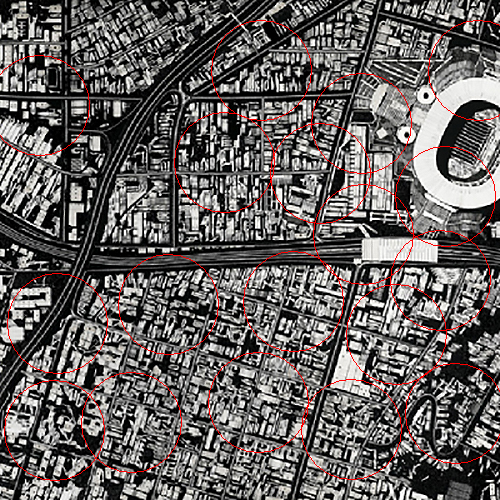
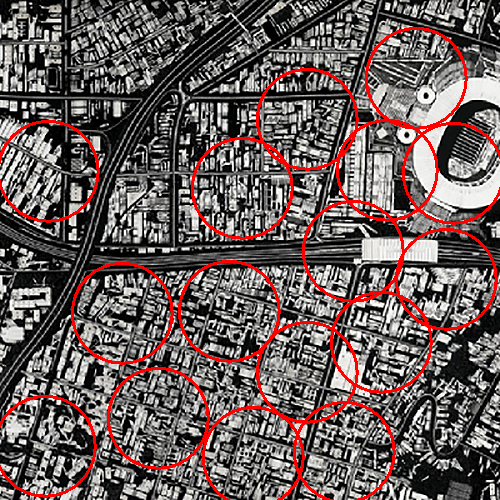
micro fix

diff --git a/src/ImgWorker.java b/src/ImgWorker.java
@@ -17,7 +17,7 @@ public class ImgWorker {
      */
     ImgWorker(String inputName, String outputName) {
         try {
-            this.image = ImageIO.read(new File("img/" + inputName));
+            this.image = ImageIO.read(new File("../img/" + inputName));
             this.outputName = outputName;
             height = image.getHeight();
             width = image.getWidth();
@@ -75,14 +75,14 @@ public class ImgWorker {
 
         Graphics2D g = (Graphics2D) image.getGraphics();
         g.setColor(Color.RED);
-        g.setStroke(new BasicStroke(1));
+        g.setStroke(new BasicStroke(3));
         for (Point point : solve.getPoints()) {
             g.drawOval(point.getY() - 50, point.getX() - 50, 100, 100);
         }
 
 
         try {
-            File outputFile = new File("img/" + outputName);
+            File outputFile = new File("../img/" + outputName);
             ImageIO.write(image, "png", outputFile);
             System.out.println("Изображение было сохранено");
             System.out.println("Было сгенерировано " + solve.getPointsArraySize() + " вышек");
